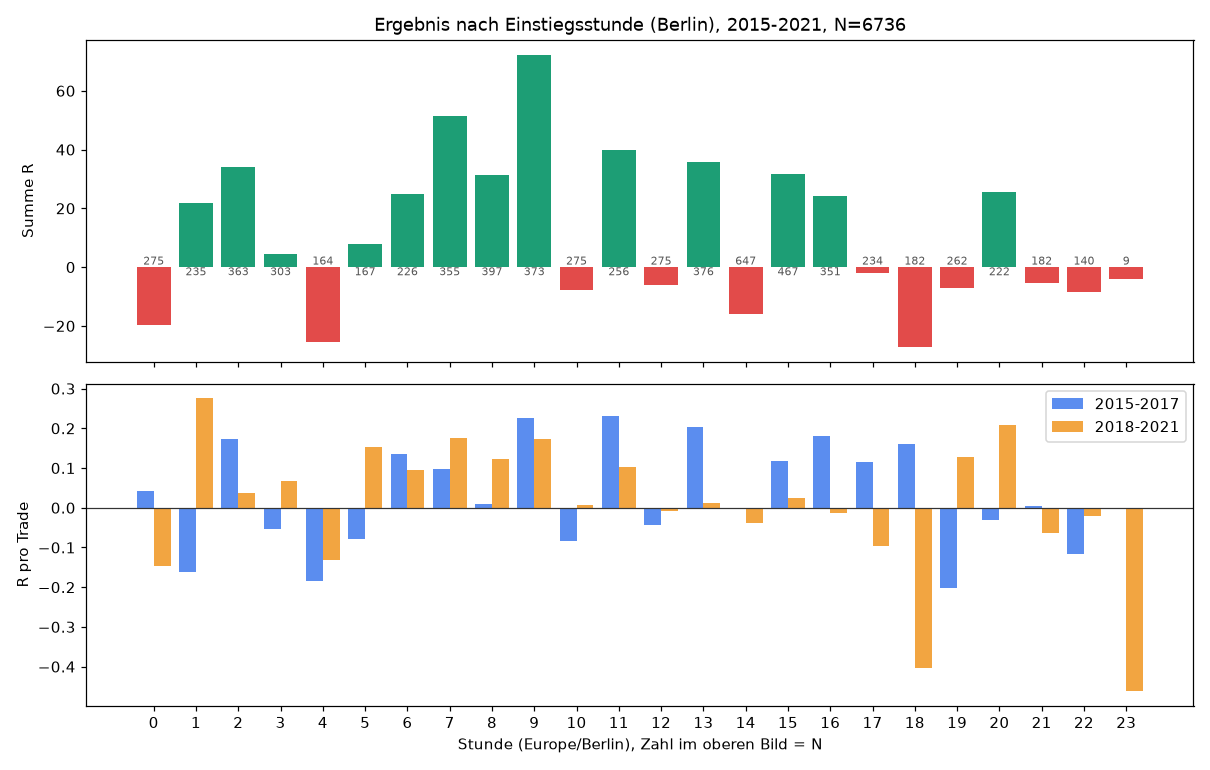
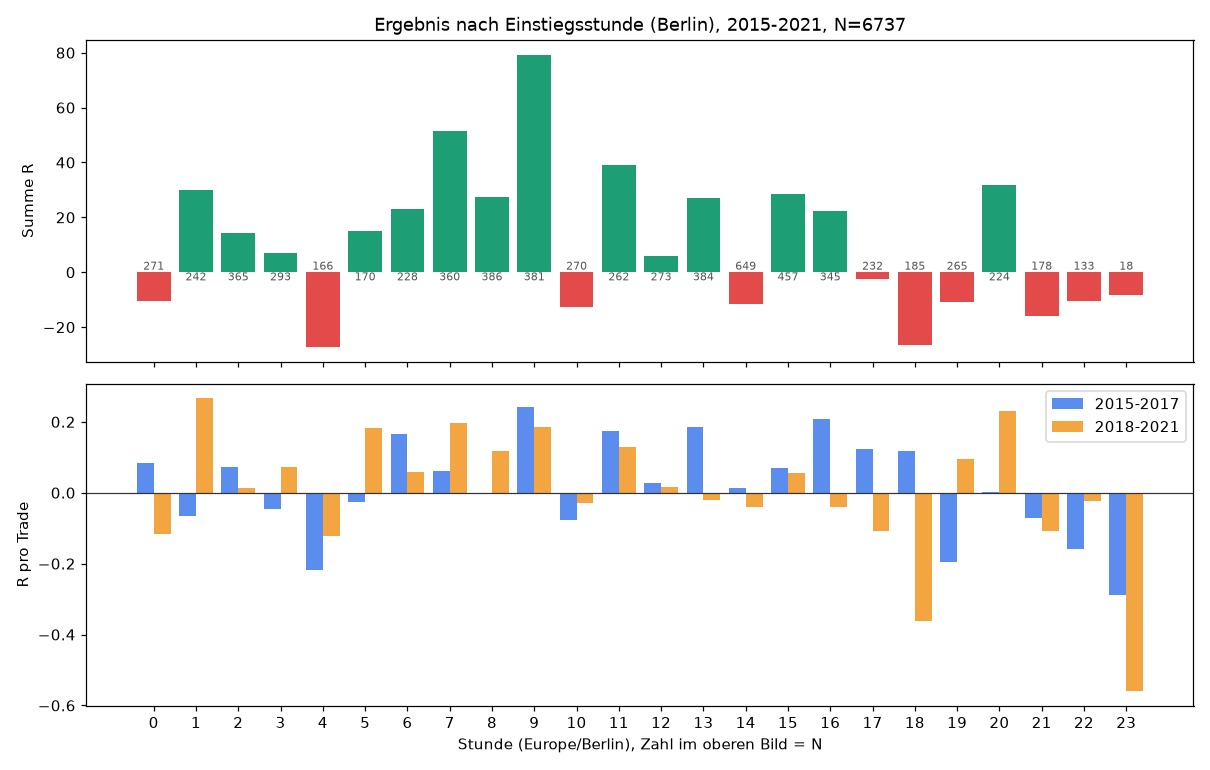
HistData clock: New York time up to 2018, clock check in data report
Files up to 2018 are stamped in New York local time, from 2019 in Berlin
time - 6 h. The loader used Berlin - 6 h for all years, so bars in the
US/EU daylight-saving mismatch weeks of 2009-2018 were one hour late.
The loader now picks the clock by year and the data report checks the
reopen in those weeks, warning when it is off by an hour.

Claude-Session: https://claude.ai/code/session_01MoD79T3nBZqFb9TJEzNfof

diff --git a/src/lsdtrader/data/report.py b/src/lsdtrader/data/report.py
@@ -18,6 +18,12 @@ GAP_LISTED = timedelta(minutes=15)
 # zone both show up.
 NEW_YORK = ZoneInfo("America/New_York")
 REOPEN = time(18, 0)
+BERLIN = ZoneInfo("Europe/Berlin")
+# Clock check: in the weeks where US and EU daylight saving differ, a wrong file clock moves
+# the reopen away from 18:00 New York by one hour. Reopens up to 18:05 count as on time
+# (older HistData files often start at 18:01-18:04).
+REOPEN_WINDOW = (time(17, 0), time(20, 0))  # a pause ending in here is a reopen
+REOPEN_ON_TIME = (time(18, 0), time(18, 5))
 JUMP_FACTOR = 50  # a bar-to-bar jump this many times the median 1-minute range is listed
 
 
@@ -44,6 +50,19 @@ class DataReport:
     jumps: list[Jump]
     median_range_ticks: float
     duplicates_dropped: int = 0
+    dst_reopens: int = 0  # reopens in US/EU daylight-saving mismatch weeks
+    dst_reopens_ok: int = 0  # ... of which at 18:00-18:05 New York
+
+    def clock_line(self) -> str:
+        if not self.dst_reopens:
+            return "- Clock check: no reopen in a DST-mismatch week, clock not verifiable"
+        line = (
+            f"- Clock check (US/EU DST-mismatch weeks): {self.dst_reopens_ok} of "
+            f"{self.dst_reopens} reopens at 18:00-18:05 New York"
+        )
+        if self.dst_reopens_ok * 2 < self.dst_reopens:
+            line += " -- WARNING: file clock looks wrong, hours in these weeks are shifted"
+        return line
 
     def to_markdown(self) -> str:
         lines = [
@@ -56,6 +75,7 @@ class DataReport:
             f"- Median 1-minute range: {self.median_range_ticks:.1f} ticks",
             f"- Unexpected gaps ({GAP_LISTED} or longer): {len(self.gaps)}",
             f"- Price jumps over {JUMP_FACTOR}x median range: {len(self.jumps)}",
+            self.clock_line(),
         ]
         if self.gaps:
             lines += ["", "## Largest gaps", "", "| After | Length |", "|---|---|"]
@@ -75,6 +95,7 @@ def build_report(
         return DataReport(instrument.root, None, None, 0, 0, [], [], 0.0, duplicates_dropped)
     median_range = statistics.median(m.high - m.low for m in minutes) or 1.0
     breaks, gaps, jumps = 0, [], []
+    dst_reopens = dst_ok = 0
     for prev, cur in zip(minutes, minutes[1:], strict=False):
         pause = cur.ts - prev.ts - timedelta(minutes=1)
         expected = pause >= GAP_LISTED and cur.ts.astimezone(NEW_YORK).time() == REOPEN
@@ -82,6 +103,11 @@ def build_report(
             breaks += 1
         elif pause >= GAP_LISTED:
             gaps.append(Gap(prev.ts, pause))
+        ny = cur.ts.astimezone(NEW_YORK)
+        reopen = pause >= GAP_LISTED and REOPEN_WINDOW[0] <= ny.time() < REOPEN_WINDOW[1]
+        if reopen and is_dst_mismatch(cur.ts):
+            dst_reopens += 1
+            dst_ok += REOPEN_ON_TIME[0] <= ny.time() <= REOPEN_ON_TIME[1]
         jump = cur.open - prev.close
         if not expected and abs(jump) > JUMP_FACTOR * median_range:
             jumps.append(Jump(cur.ts, jump))
@@ -95,4 +121,13 @@ def build_report(
         jumps,
         float(median_range),
         duplicates_dropped,
+        dst_reopens,
+        dst_ok,
     )
+
+
+def is_dst_mismatch(ts: datetime) -> bool:
+    """True in the weeks where Berlin is 5 instead of 6 hours ahead of New York."""
+    berlin, new_york = ts.astimezone(BERLIN).utcoffset(), ts.astimezone(NEW_YORK).utcoffset()
+    assert berlin is not None and new_york is not None
+    return berlin - new_york != timedelta(hours=6)

diff --git a/src/lsdtrader/data/minute_files.py b/src/lsdtrader/data/minute_files.py
@@ -1,9 +1,8 @@
 """Loaders for 1-minute bar files: HistData.com ASCII zips and Dukascopy CSV exports.
 
 HistData:  zip containing DAT_ASCII_<SYMBOL>_M1_<YEAR>.csv, rows `YYYYMMDD HHMMSS;O;H;L;C;V`,
-           bid prices. The file clock is Europe/Berlin time minus 6 hours: UTC-5 in
-           European winter, UTC-4 in European summer (verified on SPXUSD 2020 against
-           the daily 16:14 New York halt).
+           bid prices. The file clock depends on the year (see `histdata_clock`); the two
+           clocks differ only in the weeks where US and EU daylight saving differ.
 Dukascopy: CSV with header `Etc/UTC,Open,High,Low,Close,Volume`, ISO timestamps in UTC.
 Both return 1-minute TickBars in UTC. `load_minute_files` merges files, sorts, and drops
 repeated timestamps, returning how many it dropped so the data report can show it.
@@ -23,8 +22,27 @@ from lsdtrader.core.bar import TickBar
 from lsdtrader.core.instrument import Instrument
 
 BERLIN = ZoneInfo("Europe/Berlin")
-HISTDATA_SHIFT = timedelta(hours=6)  # file clock = Berlin time - 6 h
-HISTDATA_NAME = re.compile(r"DAT_ASCII_([A-Z0-9]+)_M1_\d{4,6}\.csv$", re.IGNORECASE)
+NEW_YORK = ZoneInfo("America/New_York")
+HISTDATA_SHIFT = timedelta(hours=6)  # 2019+: file clock = Berlin time - 6 h
+# Up to 2018 the file clock is New York local time (UTC-5 / UTC-4 with US daylight saving).
+# Verified on XAUUSD 2009-2025: up to 2018 the CME reopen is stamped 18:00/18:01 also in the
+# US/EU daylight-saving mismatch weeks, from 2019 it is stamped 17:00 there (SPXUSD 2020: the
+# 16:14 New York halt shows as 15:14); payrolls at 08:30 New York sit at 08:30 in the 2018
+# file and at 07:30 in the 2019 file. `lsd data-report` re-checks this for every load.
+LAST_NEW_YORK_CLOCK_YEAR = 2018
+HISTDATA_NAME = re.compile(r"DAT_ASCII_([A-Z0-9]+)_M1_(\d{4})\d{0,2}\.csv$", re.IGNORECASE)
+
+
+def histdata_clock(year: int) -> str:
+    """Clock of a HistData file of this year."""
+    return "America/New_York" if year <= LAST_NEW_YORK_CLOCK_YEAR else "Europe/Berlin - 6 h"
+
+
+def histdata_to_utc(stamp: datetime, year: int) -> datetime:
+    """UTC time of a naive HistData file stamp."""
+    if year <= LAST_NEW_YORK_CLOCK_YEAR:
+        return stamp.replace(tzinfo=NEW_YORK).astimezone(UTC)
+    return (stamp + HISTDATA_SHIFT).replace(tzinfo=BERLIN).astimezone(UTC)
 
 
 def histdata_symbol(path: Path) -> str:
@@ -45,13 +63,16 @@ def read_histdata_zip(path: Path, inst: Instrument) -> list[TickBar]:
     with zipfile.ZipFile(path) as z:
         (name,) = [n for n in z.namelist() if HISTDATA_NAME.search(n)]
         text = z.read(name).decode("ascii")
+    m = HISTDATA_NAME.search(name)
+    assert m is not None
+    year = int(m.group(2))
     bars = []
     for line in text.splitlines():
         if not line.strip():
             continue
         stamp, o, h, lo, c, _vol = line.split(";")
-        berlin = (datetime.strptime(stamp, "%Y%m%d %H%M%S") + HISTDATA_SHIFT).replace(tzinfo=BERLIN)
-        bars.append(_bar(inst, berlin.astimezone(UTC), o, h, lo, c))
+        ts = histdata_to_utc(datetime.strptime(stamp, "%Y%m%d %H%M%S"), year)
+        bars.append(_bar(inst, ts, o, h, lo, c))
     return bars
 
 

diff --git a/tests/data/test_minute_files.py b/tests/data/test_minute_files.py
@@ -6,6 +6,7 @@ import pytest
 
 from lsdtrader.core.instrument import get_instrument
 from lsdtrader.data.minute_files import (
+    histdata_clock,
     histdata_symbol,
     load_minute_files,
     read_dukascopy_csv,
@@ -38,6 +39,31 @@ def test_histdata_clock_is_berlin_time_minus_six_hours(tmp_path: Path) -> None:
         datetime(2020, 3, 31, 20, 14, tzinfo=UTC),
         datetime(2020, 10, 28, 20, 14, tzinfo=UTC),
     ]
+
+
+def test_histdata_files_before_2019_use_new_york_clock(tmp_path: Path) -> None:
+    # Verified on XAUUSD 2009-2025: up to 2018 the daily reopen is stamped 18:00/18:01 in every
+    # week, also where US and EU daylight saving differ (file = New York time); from 2019 it is
+    # stamped 17:00 in those weeks (file = Berlin - 6 h). Non-farm payrolls (08:30 New York)
+    # confirm it: 2018-11-02 at 08:30 in the file, 2019-11-01 at 07:30.
+    rows = [
+        "20180115 180100;1;1;1;1;0",  # winter: both clocks agree (UTC-5)
+        "20180313 180100;1;1;1;1;0",  # US summer, EU winter: New York clock -> UTC-4
+        "20180702 180100;1;1;1;1;0",  # both summer: both clocks agree (UTC-4)
+        "20181102 083000;1;1;1;1;0",  # EU winter, US still summer -> UTC-4
+    ]
+    bars = read_histdata_zip(histdata_zip(tmp_path / "a.zip", rows, "XAUUSD", 2018), SPX)
+    assert [b.ts for b in bars] == [
+        datetime(2018, 1, 15, 23, 1, tzinfo=UTC),
+        datetime(2018, 3, 13, 22, 1, tzinfo=UTC),
+        datetime(2018, 7, 2, 22, 1, tzinfo=UTC),
+        datetime(2018, 11, 2, 12, 30, tzinfo=UTC),
+    ]
+
+
+def test_histdata_clock_by_year() -> None:
+    assert histdata_clock(2009) == histdata_clock(2018) == "America/New_York"
+    assert histdata_clock(2019) == histdata_clock(2026) == "Europe/Berlin - 6 h"
 
 
 def test_histdata_symbol_from_zip(tmp_path: Path) -> None:

diff --git a/tests/data/test_aggregate_report.py b/tests/data/test_aggregate_report.py
@@ -52,3 +52,36 @@ def test_report_classifies_gaps_breaks_and_jumps() -> None:
 def test_report_of_nothing() -> None:
     report = build_report(get_instrument("SPXUSD"), [])
     assert report.n_minutes == 0 and report.first is None
+
+
+def reopen_days(first_utc: datetime, days: int) -> list[TickBar]:
+    """A bar every 10 minutes for 22:50 h after each daily reopen, then a 69-minute pause."""
+    return [
+        TickBar(first_utc + timedelta(days=d, minutes=10 * k), 1, 1, 1, 1)
+        for d in range(days)
+        for k in range(138)
+    ]
+
+
+def test_report_checks_the_reopen_in_dst_mismatch_weeks() -> None:
+    # 2018-03-12..15: US summer, EU winter. The CME reopen is 18:00 New York = 22:00 UTC.
+    good = build_report(
+        get_instrument("XAUUSD"), reopen_days(datetime(2018, 3, 12, 22, tzinfo=UTC), 5)
+    )
+    assert (good.dst_reopens_ok, good.dst_reopens) == (4, 4)
+    assert "4 of 4 reopens at 18:00-18:05 New York" in good.to_markdown()
+    assert "WARNING" not in good.to_markdown()
+    # Same days read with the wrong clock: reopen shown at 19:00 New York.
+    bad = build_report(
+        get_instrument("XAUUSD"), reopen_days(datetime(2018, 3, 12, 23, tzinfo=UTC), 5)
+    )
+    assert (bad.dst_reopens_ok, bad.dst_reopens) == (0, 4)
+    assert "WARNING" in bad.to_markdown()
+
+
+def test_report_without_dst_mismatch_week_says_so() -> None:
+    report = build_report(
+        get_instrument("XAUUSD"), reopen_days(datetime(2018, 7, 2, 22, tzinfo=UTC), 2)
+    )
+    assert report.dst_reopens == 0
+    assert "no reopen in a DST-mismatch week" in report.to_markdown()

diff --git a/docs/HANDOFF.md b/docs/HANDOFF.md
@@ -14,8 +14,8 @@ XAUUSD 2009-2014 were added to the data repo on 2026-09-25 (2009 starts 2009-03-
 has no earlier gold year). They are not assigned to any split yet and have not been
 backtested; Xaver decides their use. Data reports: the daily halt often starts at 17:15 New
 York (old COMEX schedule) and ends at 18:00; 2009-2012 have 34-41 holes >= 15 min outside
-halts per year (2014-2015: 6-10); the same US/EU DST-mismatch weeks as 2015 look shifted by
-one hour (reopen shown at 19:00 New York).
+halts per year (2014-2015: 6-10). The one-hour shift in the US/EU DST-mismatch weeks is fixed
+(see "Clock / daylight saving" below).
 If the clone fails in the cloud, attach `xaverm1/lsd-trader-data` to the session, clone it
 next to this repo and link it: `ln -s ../lsd-trader-data data`.
 
@@ -32,8 +32,22 @@ All testing and optimization happens on **gold (XAUUSD)**.
 | 2022-2023 | validate only what survived optimization (2023 has ~600 data holes) |
 | 2024-2025 | LOCKED holdout, touched exactly once at the very end |
 
-Pre-2019 files end the daily halt at 17:01 CT (data report flags it; harmless) and some
-DST-mismatch weeks may look shifted by one hour, which matters only for time-of-day filters.
+Pre-2019 files end the daily halt at 17:01 CT (data report flags it; harmless).
+
+### Clock / daylight saving (fixed 2026-09-25)
+
+HistData files up to 2018 are stamped in New York local time, from 2019 in Berlin time - 6 h.
+Both clocks agree except in the 3-4 weeks a year where US and EU daylight saving differ; the
+loader used Berlin - 6 h for all years, so in those weeks 2009-2018 bars were one hour late.
+Evidence (XAUUSD 2009-2025): the reopen is stamped 18:00/18:01 in every week up to 2018 and
+17:00 in the mismatch weeks from 2019; payrolls (08:30 NY) sit at 08:30 in the 2012/2018
+files and 07:30 in 2019/2024. The loader now picks the clock by year
+(`histdata_clock`), and `lsd data-report` prints a **Clock check** line: how many reopens in
+mismatch weeks fall at 18:00-18:05 New York, with a WARNING if fewer than half do (old
+loader: 0 of 15-20 in every year up to 2018; now 9/14 to 20/20 in every year, the misses are
+ragged old reopens at 17:45-17:59 or late ones after 18:05, none shifted by an hour). Check that line
+for every new file. Effect on the gold baseline 2015-2021 (no costs): 6736 -> 6737 trades,
++276 R -> +264 R (+0.041 -> +0.039 R/trade); results below marked (old clock) predate this.
 
 ## Next task: zone age
 
@@ -76,7 +90,7 @@ Same run reproduced exactly (6736 trades, -2162.5 R). `scripts/stop_size.py`:
 ### Spread off (decided by Xaver 2026-09-25)
 
 XAUUSD spread is now 0 (no costs at all on gold): the rules are developed cost-free and
-costs are judged later on futures data. Zero-spread 2015-2021 = old gross: +0.041 R/trade,
+costs are judged later on futures data. Zero-spread 2015-2021 = old gross (old clock): +0.041 R/trade,
 +276 R, t=1.73; shorts +0.069 (t=2.0), longs +0.012; 2020 and 2021 negative.
 Keep in mind when judging a change: GC costs ~ $0.35/oz / stop in R (~0.4 R at the $0.90
 median stop), and the short-side bid-bar bias above still inflates short results.
@@ -84,12 +98,13 @@ median stop), and the short-side bid-bar bias above still inflates short results
 ### Hour of day (gold 2015-2021, no costs, `scripts/hour_of_day.py`)
 
 Picture: `docs/results/hour_of_day_gold_2015-2021.png`. No single hour reaches |t| >= 2 (24
-tests; one would be expected by chance). Best 09-10 Berlin (+0.19 R/T, N=373, t=1.8, both
+tests; one would be expected by chance). Old clock: best 09-10 Berlin (+0.19 R/T, N=373, t=1.8, both
 halves positive), worst 04-05 (-0.15, N=164) and 18-19 (-0.15, N=182, sign flips between
 halves). Session blocks (fixed by convention, not by the result): London 08-14 +0.085 R/T
 (N=1952, t=1.8, both halves +), Asia 00-08 +0.048, NY overlap 14-18 +0.022,
 NY afternoon 18-24 -0.027. No time filter adopted; a session filter would be a hypothesis
-for 2022-2023, not a finding. DST-mismatch weeks before 2019 may shift single hours.
+for 2022-2023, not a finding. Rerun with the fixed clock (picture updated): same picture,
+09-10 +0.21 R/T (N=381, t=1.9), 04-05 -0.17 (N=166), 18-19 -0.14 (N=185); still no |t| >= 2.
 
 ## Working rules
 

diff --git a/docs/specs/2026-09-25-engine-backtester-design.md b/docs/specs/2026-09-25-engine-backtester-design.md
@@ -171,7 +171,7 @@ Databento could not be used: the only available card was rejected at signup befo
 
 Decision (Xaver, 2026-09-25):
 
-- **Primary source for building and first tests: HistData.com free 1-minute CFD data** (SPX/USD, NSX/USD, XAU/USD, XAG/USD, WTI/USD; bid only, no volume). **Correction after review:** the HistData clock is *not* fixed EST; it is Europe/Berlin time minus 6 hours (UTC−5 in European winter, UTC−4 in European summer), verified on SPXUSD 2020 against the daily 16:14 New York halt. The data report treats a pause as an expected break only if trading resumes at 18:00 New York; every other pause of 15 minutes or more is listed, so data holes and time-zone errors surface.. Downloaded so far: SPX/USD 2020–2025.
+- **Primary source for building and first tests: HistData.com free 1-minute CFD data** (SPX/USD, NSX/USD, XAU/USD, XAG/USD, WTI/USD; bid only, no volume). **Correction after review:** the HistData clock is *not* fixed EST; it is Europe/Berlin time minus 6 hours (UTC−5 in European winter, UTC−4 in European summer), verified on SPXUSD 2020 against the daily 16:14 New York halt. **Second correction (2026-09-25):** this holds from 2019; files up to 2018 are stamped in New York local time (verified on XAUUSD 2009-2025 via the reopen and payroll minutes in the US/EU daylight-saving mismatch weeks). The loader picks the clock by year and the data report checks the reopen in those weeks. The data report treats a pause as an expected break only if trading resumes at 18:00 New York; every other pause of 15 minutes or more is listed, so data holes and time-zone errors surface.. Downloaded so far: SPX/USD 2020–2025.
 - **Dukascopy CSV exports** are supported as a second CFD source (manual, small samples).
 - **Futures data** (Databento or a prop-firm Rithmic feed) stays planned as a second source; §4.1–4.2 (fetch, roll, Panama adjustment) move to that later plan. CFDs have no contract roll.
 - **CFD cost model:** a fixed spread per instrument, paid once per trade on entry (bars are bid prices); commission 0, slippage 0. Values are placeholders until measured (Dukascopy exports bid and ask, so the spread can be measured there).

diff --git a/README.md b/README.md
@@ -22,7 +22,8 @@ The engine reads 1-minute bars and builds 5-minute bars from them; the broker re
 and targets on the 1-minute bars.
 
 - **HistData.com** ASCII 1-minute zips (free CFD data: SPX/USD, NSX/USD, XAU/USD, XAG/USD,
-  WTI/USD). Timestamps are EST without daylight saving and are converted to UTC.
+  WTI/USD). Timestamps are New York time up to 2018 and Berlin time - 6 h from 2019; both
+  are converted to UTC. `lsd data-report` shows a clock check for the daylight-saving weeks.
 - **Dukascopy** CSV exports (header `Etc/UTC,...`); pass `--instrument`, e.g. `USA500.IDX/USD`.
 - **TradingView** JSON chart exports (5-minute bars only).
 
